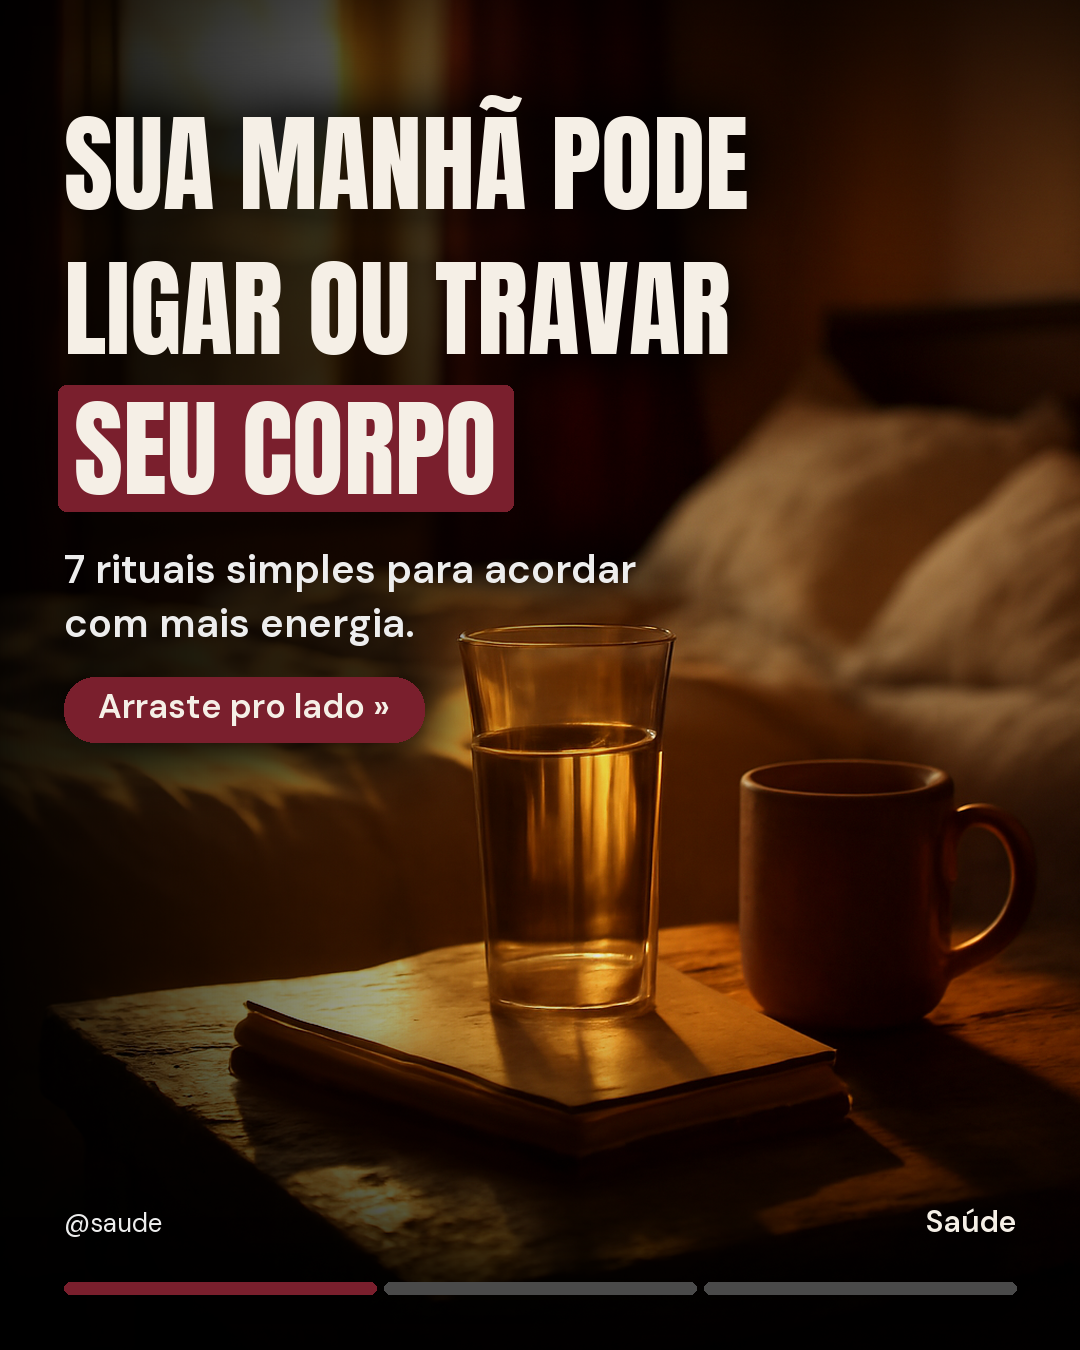
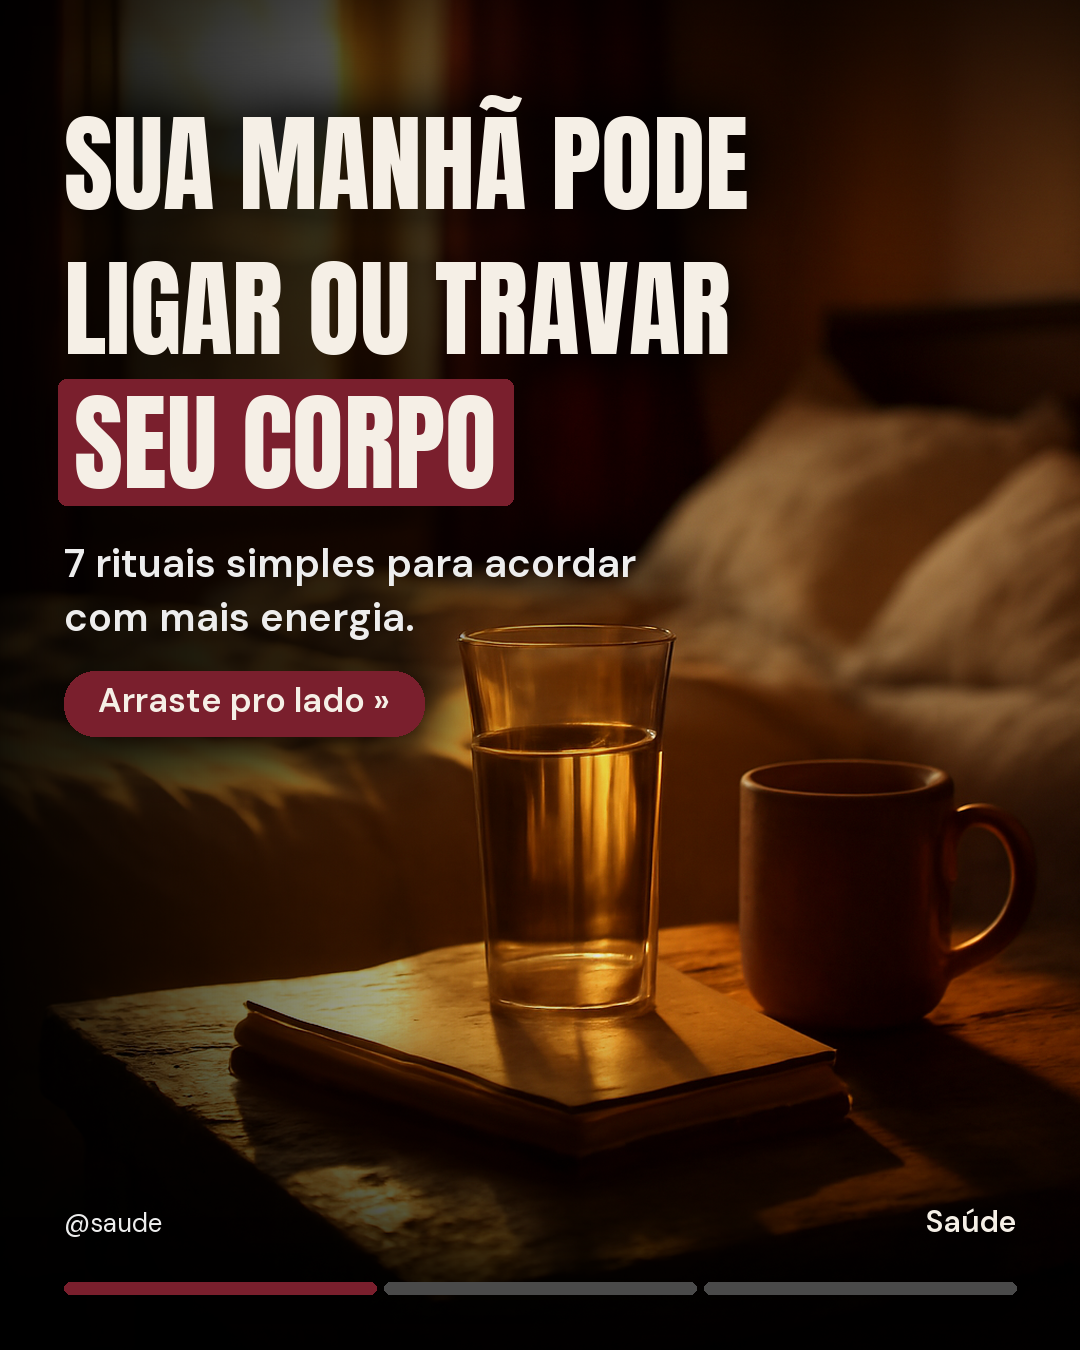
Sobe levemente o balao de destaque (respiro 16 -> 10px)

Changed region(s): [[0.0611, 0.28, 0.5806, 0.56]]

diff --git a/.claude/skills/carrossel-instagram/scripts/montar_slide.py b/.claude/skills/carrossel-instagram/scripts/montar_slide.py
@@ -387,7 +387,7 @@ def montar_m2(spec, pal, meta, dir_base, idx, total):
         if linha.get("destaque"):
             # balao centralizado na caixa de tinta REAL das letras, com folga igual
             # em todos os lados (nao invade a linha de cima nem corta a de baixo)
-            y += 16  # respiro para o balao manter o mesmo ritmo das linhas normais
+            y += 10  # leve respiro antes do balao (colado fica sufocado; 16 ficava baixo)
             l, t, r, b = d.textbbox((X + 10, y), txt, font=f)
             pad = 16
             d.rounded_rectangle([l - pad, t - pad, r + pad, b + pad],
